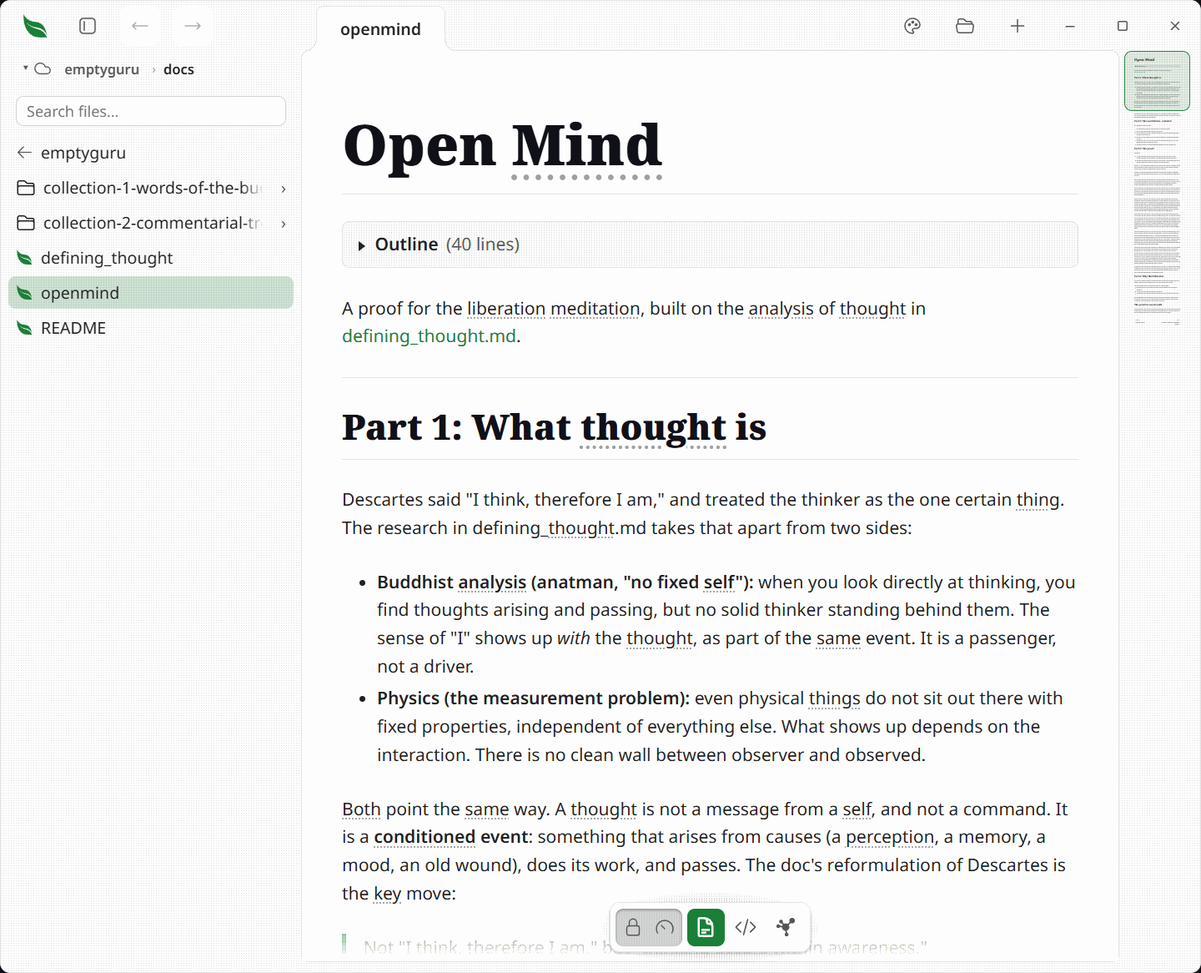
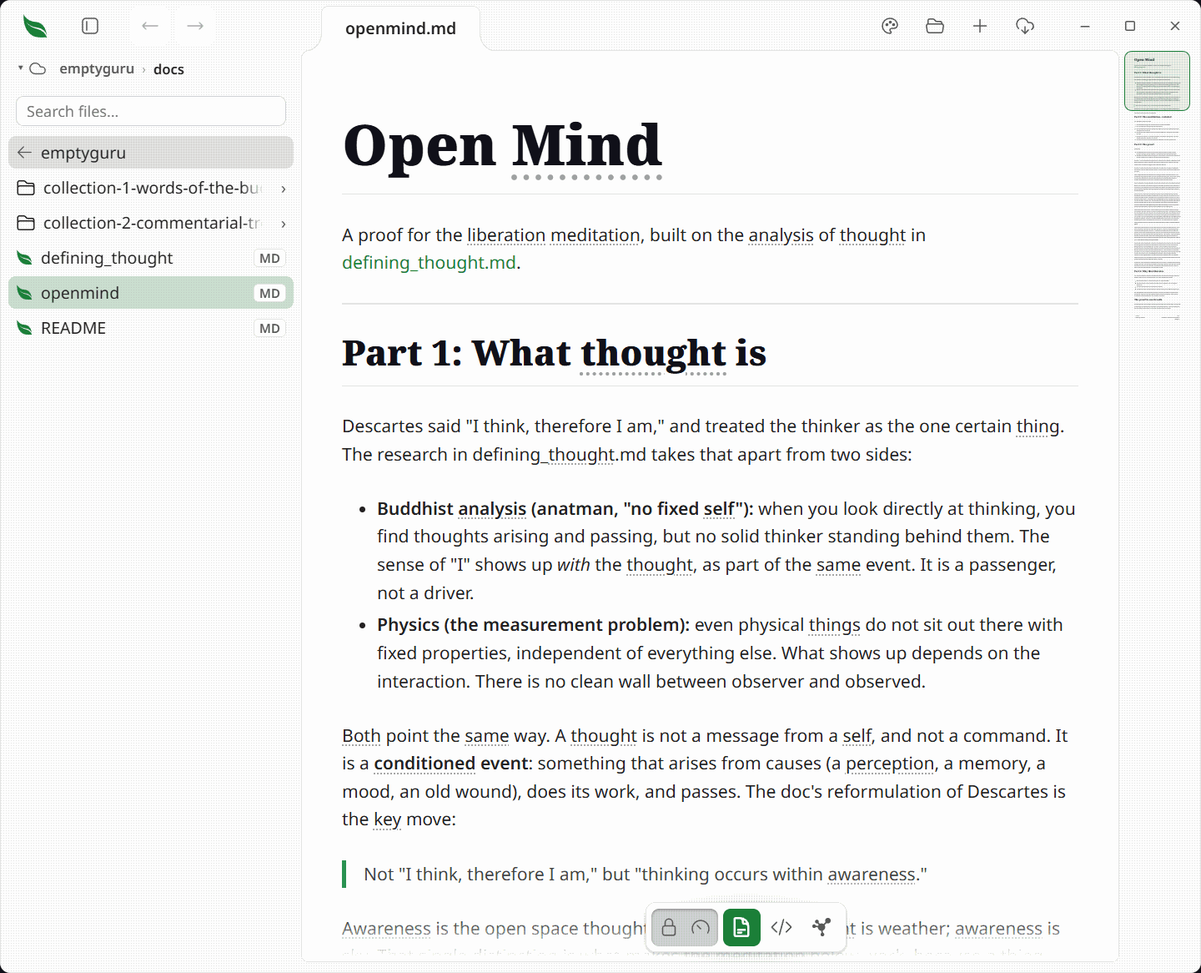
Release v1.40.0: The headings of a document in the pane, the stand-in page reading an attribute value, and the motion probe reading a note as the app answer

diff --git a/src/tests/editing.rs b/src/tests/editing.rs
@@ -325,7 +325,7 @@ fn the_reading_view_has_no_gutter_line_numbers() {
         );
     }
 
-    // What the numbers were nice for survives: the line above the pane's headings still reports how long the document is. Counted rather than stamped onto every block.
+    // How long the document is, is reported by the line above the pane's headings. Counted rather than stamped onto every block.
     assert!(html.contains("function documentLineCount(body)"));
     assert!(html.contains("const DOCUMENT_LINE_SELECTOR = 'h1, h2, h3, h4, h5, h6, p, li, blockquote, pre:not(.mermaid), table, details, figure, div[id], a[id]'"));
     assert!(html.contains("${formatCount(openDocumentLineCount())} lines"));

diff --git a/src/tests/app_shell_reader_document.rs b/src/tests/app_shell_reader_document.rs
@@ -271,7 +271,7 @@ fn app_shell_draws_the_documents_headings_in_the_library_pane() {
         "libraryOutlineFrame = window.requestAnimationFrame(() => {",
     );
 
-    // Nothing is drawn between a title and its first sentence any more: the box, its lazy populate and its summary are gone.
+    // Nothing is drawn between a title and its first sentence: no box, no lazy populate, no summary.
     for absent in [
         "buildDocumentOutline",
         "populateDocumentOutline",

diff --git a/docs/02-development/06-screenshots.md b/docs/02-development/06-screenshots.md
@@ -39,22 +39,22 @@ Only the marked rows have been run as written. The rest are reconstructed from t
 | `file-actions.png` | The right-click menu on a file row in the library pane | **Run 11 August 2026.** `-Doc <vault>\docs\openmind.md -Vault <vault> -LibraryOpen -Steps 'rclick:127,309'` |
 | `file-associations.png` | Notes in Explorer wearing the leaf icon, the right-click menu open and Leaftext at the top of Open with | **Run 15 August 2026.** Taken by hand, like the install shots below: it is another program's window, and the capture script drives this one. Install the app so it registers the extensions, make a folder of plainly named `.md` files, open it in Explorer at medium icons, right-click one and **click** Open with — hovering does not open the submenu when the pointer is moved by a program rather than by a hand. Photograph the screen where the window is, not the window: a menu is its own window and does not come back in a shot of the one under it. Give the window room for the whole menu — about 1500x1080 — or the menu runs off the frame, and crop to the window's own edges |
 | `flowchart-editor.png` | The flowchart editor as a full-window sheet, canvas and text | **Run 11 August 2026.** `-Doc ../docs/tests/flowcharts.md -Unlocked -Steps 'move:660,430 click:1084,554 wait:4000'` — the move brings up the diagram's own toolbar, whose second button opens the editor |
-| `format-bar.png` | The format bar floating over a few selected words | **Run 22 August 2026, 9:19pm.** `-Doc ../docs/tests/editing-screenshot.md -Unlocked -Steps 'drag:220,370,700,370' -Crop '213,276,720,152'` — the crop starts at the bar's own top edge, because the collapsed outline behind it otherwise shows a clipped marker above the bar |
+| `format-bar.png` | The format bar floating over a few selected words | **Run 22 August 2026, 9:19pm.** `-Doc ../docs/tests/editing-screenshot.md -Unlocked -Steps 'drag:220,370,700,370' -Crop '213,276,720,152'` — the crop starts at the bar's own top edge |
 | `frontmatter-fields.png` | A note's fields as rows: text, date, checkbox and tags, with Add a field | reconstructed: a document whose front matter carries one of each kind, cropped to the block. The document is not in the repo |
 | `glossary-sheet.png` | A glossary entry open in a bottom sheet over the page | **Run 11 August 2026.** `-Doc <vault>\docs\openmind.md -Steps 'click:849,370 wait:2000'` — the click lands on an underlined term |
 | `github-sync.png` | A vault's settings panel: the repository it pushes to, Sync and Change repo, with the breadcrumb's sync button carrying a count | **Run 15 August 2026.** `-Doc <clone>\leaftext\app\README.md -Vault <clone> -LibraryOpen -Steps 'click:40,83 click:90,192 wait:15000 click:40,83 click:251,192 wait:4000 move:350,131 wait:600'`, where `<clone>` is any git clone with a GitHub remote and work that has not reached it — the count is what it has waiting, and a folder prepared for the shot would take the git writes `scripts/gate-git.mjs` refuses. The last move parks the pointer on the panel's own heading, because leaving it on the button that opened the panel photographs a row as selected. The panel stands through anything else on the machine taking the foreground, which is what once shut it between the click that opened it and the shot |
 | `graph.png` | The link graph around one document, its neighbors named | **Run 11 August 2026.** `-Doc <vault>\docs\collection-1-words-of-the-buddha--kangyur\volume-2-discourses--sutras\book-4-heap-of-jewels\README.md -Vault <vault> -LibraryOpen -GraphScope small -Steps 'click:941,1111 wait:8000'` — `xl` over a vault this size is a hairball with no readable name in it |
 | `home.png` | The home screen with no vault: the three buttons and the line under them, the recent list and the favorites beside it | **Run 13 August 2026.** no `-Doc`, `-Recents <files> -Favorites <files>`, and a `-Work` folder of its own — a profile reused from an earlier shot still holds that run's vaults, and a vault scopes both lists and takes the third button away |
 | `insert-row.png` | The insert row fanned out over an empty line | **Run 11 August 2026.** `-Doc <vault>\docs\openmind.md -Unlocked -Steps 'click:660,445 click:128,467'` — the first click puts the plus on the empty line, the second fans it out |
-| `leaftext.png` | The whole window: library, rendered page, minimap | **Run 11 August 2026.** `-Doc <vault>\docs\openmind.md -Vault <vault> -LibraryOpen` — the same picture as `ui-tour.png` and `library.png`, filed three times |
+| `leaftext.png` | The whole window: the pane holding the document's headings, the rendered page, the minimap | **Run 27 August 2026, 8:35pm.** `-Doc <vault>\docs\openmind.md -Vault <vault> -LibraryOpen` — the same picture as `ui-tour.png`, filed twice. Opening a document is what puts its headings in the pane, so this takes itself |
 | `library-sheet.png` | The library over the page as a sheet in a narrow window | **Run 20 August 2026, 7:07pm.** `-Doc <vault>\docs\openmind.md -Width 390 -Height 701 -Vault <vault> -LibraryOpen -Steps 'click:107,31 wait:1500'` — the sheet describes the current view rather than a preference, so `-LibraryOpen` alone leaves it shut and the press on the library button is what opens it. The window stops at the app's own minimum width whatever `-Width` asks for below it, which is why the picture comes back 570 wide rather than 585 |
-| `library.png` | The library pane beside a document | **Run 11 August 2026.** the same shot as `leaftext.png` |
+| `library.png` | The library pane beside a document, showing the files | **Run 27 August 2026, 8:37pm.** `-Doc <vault>\\docs\\openmind.md -Vault <vault> -LibraryOpen -Steps 'click:55,182 wait:900'` — the click is the outline's back row, which is what puts the file list back; without it the pane holds the open document's headings |
 | `link-hint.png` | The tooltip beside a hovered link | a `move:` onto a link, cropped to 1000x290 |
 | `mermaid.png` | A flowchart and a pie chart in the theme's own colors | **Run 11 August 2026.** `-Doc ../docs/tests/flowcharts.md` |
 | `minimap-code.png` | The code view's own minimap rail at the right edge | `-Unlocked`, the code view, cropped to 501x520 at the right edge |
 | `minimap.png` | The minimap rail beside the page | **Run 11 August 2026.** `-Doc <vault>\docs\defining_thought.md -Crop '800,60,640,700'` |
 | `navigation.png` | The app bar across the top of the window | **Run 20 August 2026, 7:04pm.** `-Doc <vault>\docs\openmind.md -Vault <vault> -LibraryOpen -Steps 'click:120,309' -Crop '0,0,1440,67'` — the click opens the second document so the strip has two tabs, and the crop is the app's own top edge down to six rows below the bar. The click is measured off a full-window shot at the same settings every time it is run: it lands on a row in the pane, and a row moves as soon as the folder holds anything different |
-| `outline.png` | A document's Outline row expanded under its title | **Run 11 August 2026.** `-Doc <vault>\docs\openmind.md -Vault <vault> -LibraryOpen -Steps 'click:520,292'` |
+| `outline.png` | The library pane holding the open document's headings | **Run 27 August 2026, 8:36pm.** `-Doc <vault>\docs\defining_thought.md -Vault <vault> -LibraryOpen -Steps 'click:800,600 scroll:800,600,-25 wait:900'` — that document nests its headings, so the indent shows, and the scroll is what lights a row: at the top of a document the reader is above every heading and none is lit |
 | `pager.png` | The Previous / Next bar at the foot of a document | **Run 11 August 2026.** `-Doc <vault>\docs\openmind.md -Steps 'click:700,600 scroll:700,600,-60 scroll:700,600,-60'` |
 | `permalink.png` | The permalink mark beside a hovered heading | a `move:` onto a heading, cropped to 367x199 |
 | `pinned-headings.png` | Two heading rows pinned at the top of the code view | the code view scrolled into a subsection, cropped to 1360x300 |
@@ -66,7 +66,7 @@ Only the marked rows have been run as written. The rest are reconstructed from t
 | `theme-diagrams.png` | One page of diagrams under Fern light and dark | **Run 11 August 2026.** `-Doc ../docs/tests/flowcharts.md -ThemeFamily fern -ThemeMode light` and `-Doc ../docs/tests/flowcharts.md -ThemeFamily fern -ThemeMode dark`, then `just compose-shots vertical imgs/theme-diagrams.png <light.png> <dark.png>` |
 | `theme-picker.png` | The theme picker as a bottom sheet | **Run 11 August 2026.** `-Doc <vault>\docs\openmind.md -Vault <vault> -LibraryOpen -Steps 'click:1094,31'` |
 | `typing-help.png` | The completion popup after `[[`, and a broken link underlined | `-Vault <folder> -Unlocked`, the code view, `type:[[` |
-| `ui-tour.png` | The whole window with every part in view | **Run 11 August 2026.** the same shot as `leaftext.png` |
+| `ui-tour.png` | The whole window with every part in view | **Run 27 August 2026, 8:35pm.** the same shot as `leaftext.png` |
 | `update.png` | The update bell wearing its green dot, and the panel under it holding one Restart to update button | **Run 15 August 2026.** Not a `-Doc` run: the state is staged rather than waited for. `just probe-copy <document>` launches a copy beside yours and leaves it up, and every ask then lands on that copy rather than on the one you are reading; set it to `fern` light at 1000x799 with the library shut. Then run three lines in it with `just ask '{"ask":"eval",…}'`: `window.leafUpdateState({status: 'staged', version: '1.15.0'})` draws the bell, its dot and the button; `document.getElementById('updateMenu').open = true` drops the panel; `document.querySelector('.reader-shell').scrollTop = 1800` puts blank page under it, because the crop's foot otherwise cuts a heading in half. Then `-Attach -Crop '586,4,480,190'`, and `just probe-close` to end it — asked, never killed, because only a real close saves the window's size and place |
 | `vault-switcher.png` | The vault switcher open, one row wearing a cloud | **Run 11 August 2026.** through `-Command`: `-Doc docs/01-features/03-library.md -Vault @('docs','design','themes') -LibraryOpen -Steps 'click:40,83'`, with `%TEMP%\leaftext-shot\home\Dropbox` created first |
 | `xml.png` | An XML sitemap rendered as a table of records | **Run 11 August 2026.** `-Doc sitemap.xml` |

diff --git a/docs/01-features/02-navigation.md b/docs/01-features/02-navigation.md
@@ -10,7 +10,7 @@ The navigation model is simple from the outside and fairly careful under the hoo
 | --- | --- |
 | [Tabs](#tabs) | Open multiple documents at once |
 | [New document](07-editing.md#new-document) | The **+** in the app bar starts a blank page, ready to type |
-| [Outline](#outline) | A collapsed table of contents, built from the document's headings, at the top of each page, labeled with the document's line count |
+| [Outline](#outline) | The open document's headings, listed in the [library pane](03-library.md) with the one you are reading lit, labeled with the document's line count |
 | [Back / Forward](#history) | Move through file history and in-page jumps, landing where you were reading, with the page you leave sliding out the way you came |
 | [Scroll anchors](#restore) | Restore the same reading spot after rerenders, and on every step of a tab's history |
 | [Scrollbars](#scrollbars) | Every bar fades in while its box is being scrolled and out a moment after it stops, and comes back thicker while the pointer rests on it — or stays drawn the whole time, where your machine is set to always show scrollbars |
@@ -246,15 +246,16 @@ In the rendered view a replace is written to the file's source, not to the page.
 
 ### Outline
 
-![A document's Outline row just under its title, reading Outline (117 lines), expanded below into a nested bulleted list of the document's headings](../../imgs/outline.png)
+![The library pane holding the open document's headings: the back row naming its folder, an On this page line with the document's length at its right, and the heading rows indented by level with the one being read lit](../../imgs/outline.png)
 
-Every document opens with an **Outline** — a table of contents built automatically from the document's headings — tucked just under the title. It starts collapsed, so it never crowds the top of the page; click it to expand.
+Open a document and the [library pane](03-library.md) swaps its file list for that document's **Outline** — its headings, in order, indented by level, with the one you are reading lit. The lit row moves as you scroll, so the pane says where you are as well as what is there.
 
-- The collapsed header shows the document's total length — **Outline (312 lines)** — counting the body blocks: paragraphs, headings, list items, quotes, code blocks, tables. The outline's own entries are navigation rather than body, so they don't count, and neither do footnote definitions.
-- Entries nest as a bulleted list that mirrors the heading levels, so the shape of the document is visible at a glance.
-- Each entry links to its heading, so clicking one jumps straight there.
+- Above the list, a back row wearing the folder's name puts the files back.
+- Under it, **On this page** names the list, with the document's total length at its right — **312 lines** — counting the body blocks: paragraphs, headings, list items, quotes, code blocks, tables. Footnote definitions are not body, so they do not count.
+- Clicking a row jumps to that heading, and the jump joins scroll history, so Back returns to where you were reading.
+- Typing in the pane's [search box](03-library.md#search) replaces the outline with the results; clearing the box brings it back.
 - It is built from the rendered headings, so it behaves the same for Markdown, [XML](01-rendering.md#xml), [JSON or YAML](01-rendering.md#data-files-json-and-yaml), and [email](01-rendering.md#email-eml).
-- It appears whenever a document has a title plus at least one more heading; a document with only a title shows none.
+- It appears whenever a document has a title plus at least one more heading; a document with only a title leaves the file list showing.
 
 The outline lists the sections within the current document, which makes it a companion to the [minimap](04-minimap.md): the outline is the document's structure as clickable text, the minimap a scaled picture of the whole page.
 

diff --git a/docs/01-introduction.md b/docs/01-introduction.md
@@ -2,7 +2,7 @@
 
 > Refine your mind. Your thoughts, secure and free — a free desktop app for reading and writing your own documents, on your own machine.
 
-![The Leaftext window with a Markdown document open: the library pane at left, the rendered page in the middle with its outline collapsed under the title, and the minimap rail down the right edge](../imgs/leaftext.png)
+![The Leaftext window with a Markdown document open: the library pane at left holding the document's headings, the rendered page in the middle, and the minimap rail down the right edge](../imgs/leaftext.png)
 
 Leaftext turns the files you already have into pages you actually want to read. Open a Markdown, [XML](01-features/01-rendering.md#xml), [JSON, or YAML](01-features/01-rendering.md#data-files-json-and-yaml) document — or a [saved email](01-features/01-rendering.md#email-eml) — on macOS or Windows and it renders clean and calm. Keep your place with [tabs](01-features/02-navigation.md#tabs), [history](01-features/02-navigation.md#history), a [minimap](01-features/04-minimap.md), and a searchable [library](01-features/03-library.md). When something needs changing, [click into the sentence and type](01-features/07-editing.md#inline-editing-the-reading-view) — or drop to the raw source in the [code view](01-features/07-editing.md#code-view) — then [save](01-features/07-editing.md#save) when you're ready.
 
@@ -37,7 +37,7 @@ New to the terms? Words like [minimap](GLOSSARY.md#minimap) and [frontmatter](GL
 ### Move around
 
 - Keep several documents open at once in [tabs](01-features/02-navigation.md#tabs).
-- Jump to any section from the [outline](01-features/02-navigation.md#outline) at the top of each document, or from the [minimap](01-features/04-minimap.md) rail beside it.
+- Jump to any section from the [outline](01-features/02-navigation.md#outline) in the pane beside the document, or from the [minimap](01-features/04-minimap.md) rail on its other side.
 - Move [back and forward](01-features/02-navigation.md#history) through documents and in-page jumps, like a browser.
 - Read a folder in order with the [pager](01-features/02-navigation.md#pager) at the foot of each page.
 - Hover a link for a [hint](01-features/02-navigation.md#link-hints) saying what kind it is, where it goes, and how long that document is — and over a [glossary](01-features/02-navigation.md#glossary) term, the entry itself, so the word is read without leaving the sentence.

diff --git a/docs/01-features/03-library.md b/docs/01-features/03-library.md
@@ -14,6 +14,7 @@ The library is the part of Leaftext that helps you find documents, not just read
 | [First-launch bubble](#the-bubble-on-your-first-launch) | One bubble points at the switcher the first time you open the pane, and goes for good the moment you point at that button |
 | [Your first vault](#your-first-vault) | With no vault yet, the start screen offers to add your notes folder, and the pane says once what a vault buys you |
 | [File tree](#file-tree) | One folder at a time, with a breadcrumb showing where you are and a row that steps back out; going in and coming back out slide opposite ways |
+| [The open document's headings](#the-open-documents-headings) | Open a document and the pane holds its outline instead of the files, with the heading you are reading lit; a back row puts the files back |
 | [Breadcrumb](#file-tree) | The folder path above the search box; every crumb steps back to that level, and what does not fit collapses into a `…` menu |
 | [Search](#search) | Filename and content search across the active vault |
 | [Skipped folders](#skipped-folders) | A folder a machine filled — build output, a package cache — is listed and openable, and not read or watched. The search line says when one was left out |
@@ -90,6 +91,15 @@ The pane lists one folder at a time — the folder you are in, not a whole hiera
 - The folder you are in is saved, so a restart reopens it. If the folder has gone, the pane falls back to the top of the vault.
 
 Each call reads exactly one directory, so nothing below what you opened is ever touched.
+
+### The open document's headings
+
+Opening a document swaps the file list for that document's [outline](02-navigation.md#outline) — its headings, in order, indented by level, with the one you are reading lit as you scroll. Clicking a row jumps to that heading.
+
+- A back row above the list wears the folder's name and puts the files back, the same way the row above a folder listing steps out of it.
+- Under that row, **On this page** names the list and the document's length sits at its right.
+- Typing in the [search box](#search) replaces the outline with the results; clearing the box brings it back.
+- A document with only a title, or none, has no outline, so the files stay where they are.
 
 ### File types
 

diff --git a/README.md b/README.md
@@ -2,7 +2,7 @@
 
 **Your thoughts, secure and free.** Leaftext is a free desktop app for reading and writing your own documents. Everything stays on your device, in plain files you own.
 
-![The Leaftext window with a Markdown document open: the library pane at left, the rendered page in the middle with its outline collapsed under the title, and the minimap rail down the right edge](imgs/leaftext.png)
+![The Leaftext window with a Markdown document open: the library pane at left holding the document's headings, the rendered page in the middle, and the minimap rail down the right edge](imgs/leaftext.png)
 
 {{{icon:windows[Download for Windows](https://github.com/ryanallen/leaftext/releases/latest/download/leaftext-windows-x86_64.exe)}}} {{{icon:apple[Download for macOS](https://github.com/ryanallen/leaftext/releases/latest/download/leaftext-macos-universal.dmg)}}}
 
@@ -151,7 +151,7 @@ A vault can be a git repository that pushes to GitHub. Leaftext never holds a to
 
 ![Tabs and Back/Forward history in the app bar](imgs/navigation.png)
 
-It moves like a browser: [tabs](docs/01-features/02-navigation.md#tabs), Back and Forward through your [history](docs/01-features/02-navigation.md#history), an [outline](docs/01-features/02-navigation.md#outline) at the top of every document, and Ctrl-click on a link to [open it behind](docs/01-features/02-navigation.md#opening-a-link-in-a-new-page) the page you are reading. Change a file in another app and Leaftext [picks it up](docs/01-features/02-navigation.md#reload) without losing your spot. **[Navigation →](docs/01-features/02-navigation.md)**
+It moves like a browser: [tabs](docs/01-features/02-navigation.md#tabs), Back and Forward through your [history](docs/01-features/02-navigation.md#history), an [outline](docs/01-features/02-navigation.md#outline) of the open document in the pane beside it, and Ctrl-click on a link to [open it behind](docs/01-features/02-navigation.md#opening-a-link-in-a-new-page) the page you are reading. Change a file in another app and Leaftext [picks it up](docs/01-features/02-navigation.md#reload) without losing your spot. **[Navigation →](docs/01-features/02-navigation.md)**
 
 ### Take in the whole page at once
 

diff --git a/docs/01-features/01-rendering.md b/docs/01-features/01-rendering.md
@@ -363,7 +363,7 @@ version: "1.0"                     # quoted, so text — bare 1.0 is a number
 
 `<details>` / `<summary>` fold content away. Add `open` to start expanded.
 
-It slides rather than jumping: opening one grows it to its height over a quarter of a second and the page below travels with it, and closing is the same move, quicker. That is true of everything in the app that folds open in the flow of the page — the [front matter of a TEI document](#tei-xml-84000-translations), the [outline](02-navigation.md#outline), the find bar's [replace row](02-navigation.md#find-in-this-document) and the [insert row](07-editing.md#adding-a-block) in the page's margin. It is the one piece of motion the app cannot draw everywhere: on Windows it slides, and on a Mac it opens in a single frame, because the Mac's web view cannot animate a height nobody set in advance. Under [Reduce Motion](05-settings.md#reduce-motion) it opens in one frame on both.
+It slides rather than jumping: opening one grows it to its height over a quarter of a second and the page below travels with it, and closing is the same move, quicker. That is true of everything in the app that folds open in the flow of the page — the [front matter of a TEI document](#tei-xml-84000-translations), the find bar's [replace row](02-navigation.md#find-in-this-document) and the [insert row](07-editing.md#adding-a-block) in the page's margin. It is the one piece of motion the app cannot draw everywhere: on Windows it slides, and on a Mac it opens in a single frame, because the Mac's web view cannot animate a height nobody set in advance. Under [Reduce Motion](05-settings.md#reduce-motion) it opens in one frame on both.
 
 <details open>
 <summary>Open by default — click to collapse</summary>

diff --git a/docs/03-quickstart.md b/docs/03-quickstart.md
@@ -43,7 +43,7 @@ flowchart LR
 
 ## 2. Know what you are looking at
 
-![The whole Leaftext window at once: the app bar with its tab strip across the top, the library pane at left, the rendered page with its collapsed outline in the middle, the minimap rail at right, and the floating toolbar over the foot of the page](../imgs/ui-tour.png)
+![The whole Leaftext window at once: the app bar with its tab strip across the top, the library pane at left holding the document's headings, the rendered page in the middle, the minimap rail at right, and the floating toolbar over the foot of the page](../imgs/ui-tour.png)
 
 ### The app bar, across the top
 
@@ -60,7 +60,7 @@ flowchart LR
 | Area | What it does |
 | --- | --- |
 | Main reader | Shows the rendered Markdown, [XML](01-features/01-rendering.md#xml), [JSON/YAML](01-features/01-rendering.md#data-files-json-and-yaml), or [email](01-features/01-rendering.md#email-eml) |
-| Outline | A collapsed list of the document's headings at the top, labeled with the document's line count, for jumping to a section |
+| Outline | The document's headings in the library pane, labeled with the document's line count, for jumping to a section |
 | Minimap | Shows the whole document and your current viewport |
 | Pager | Previous / Next at the foot, where a folder is joined by `README.md` files |
 

diff --git a/docs/01-features/07-editing.md b/docs/01-features/07-editing.md
@@ -151,7 +151,7 @@ The plus stands on empty lines, never on a line that already says something — 
 - **On a blank line**, the plus is right there.
 - **While you are typing**, it waits on the line below. Press it to save the line you are on and choose what the next one is, in one go — no `Enter`, no clicking out first. Clicking that empty space instead just starts typing there, as body text.
 - **Between any two blocks**, hover the space and the plus appears in it. Clicking the space starts a line there too.
-- **Never over something the page drew.** The [outline](02-navigation.md#outline) and the pager are not part of your document, so no clickable space is offered across them — clicking the outline opens the outline, unlocked or not.
+- **Never over something the page drew.** The pager is not part of your document, so no clickable space is offered across it.
 
 Press it and a row of kinds fans out over the empty line, unfurling rather than appearing — the same motion as [everything else that folds open](01-rendering.md#collapsible-sections):
 

diff --git a/docs/GLOSSARY.md b/docs/GLOSSARY.md
@@ -236,7 +236,7 @@ Apple's paid check that lets macOS vouch for an app. Leaftext is free and not en
 
 ## Outline
 
-The collapsed table of contents under a document's title, built from its headings and labeled with the document's line count. Click it to expand; click an entry to jump. It is the document's structure as text, where the [minimap](GLOSSARY.md#minimap) is a picture of it.
+The open document's headings, listed in the [library pane](GLOSSARY.md#library-pane) in place of the file list, indented by level and labeled with the document's line count. The heading you are reading is lit; click a row to jump to it. It is the document's structure as text, where the [minimap](GLOSSARY.md#minimap) is a picture of it.
 
 ## Overflow menu
 
